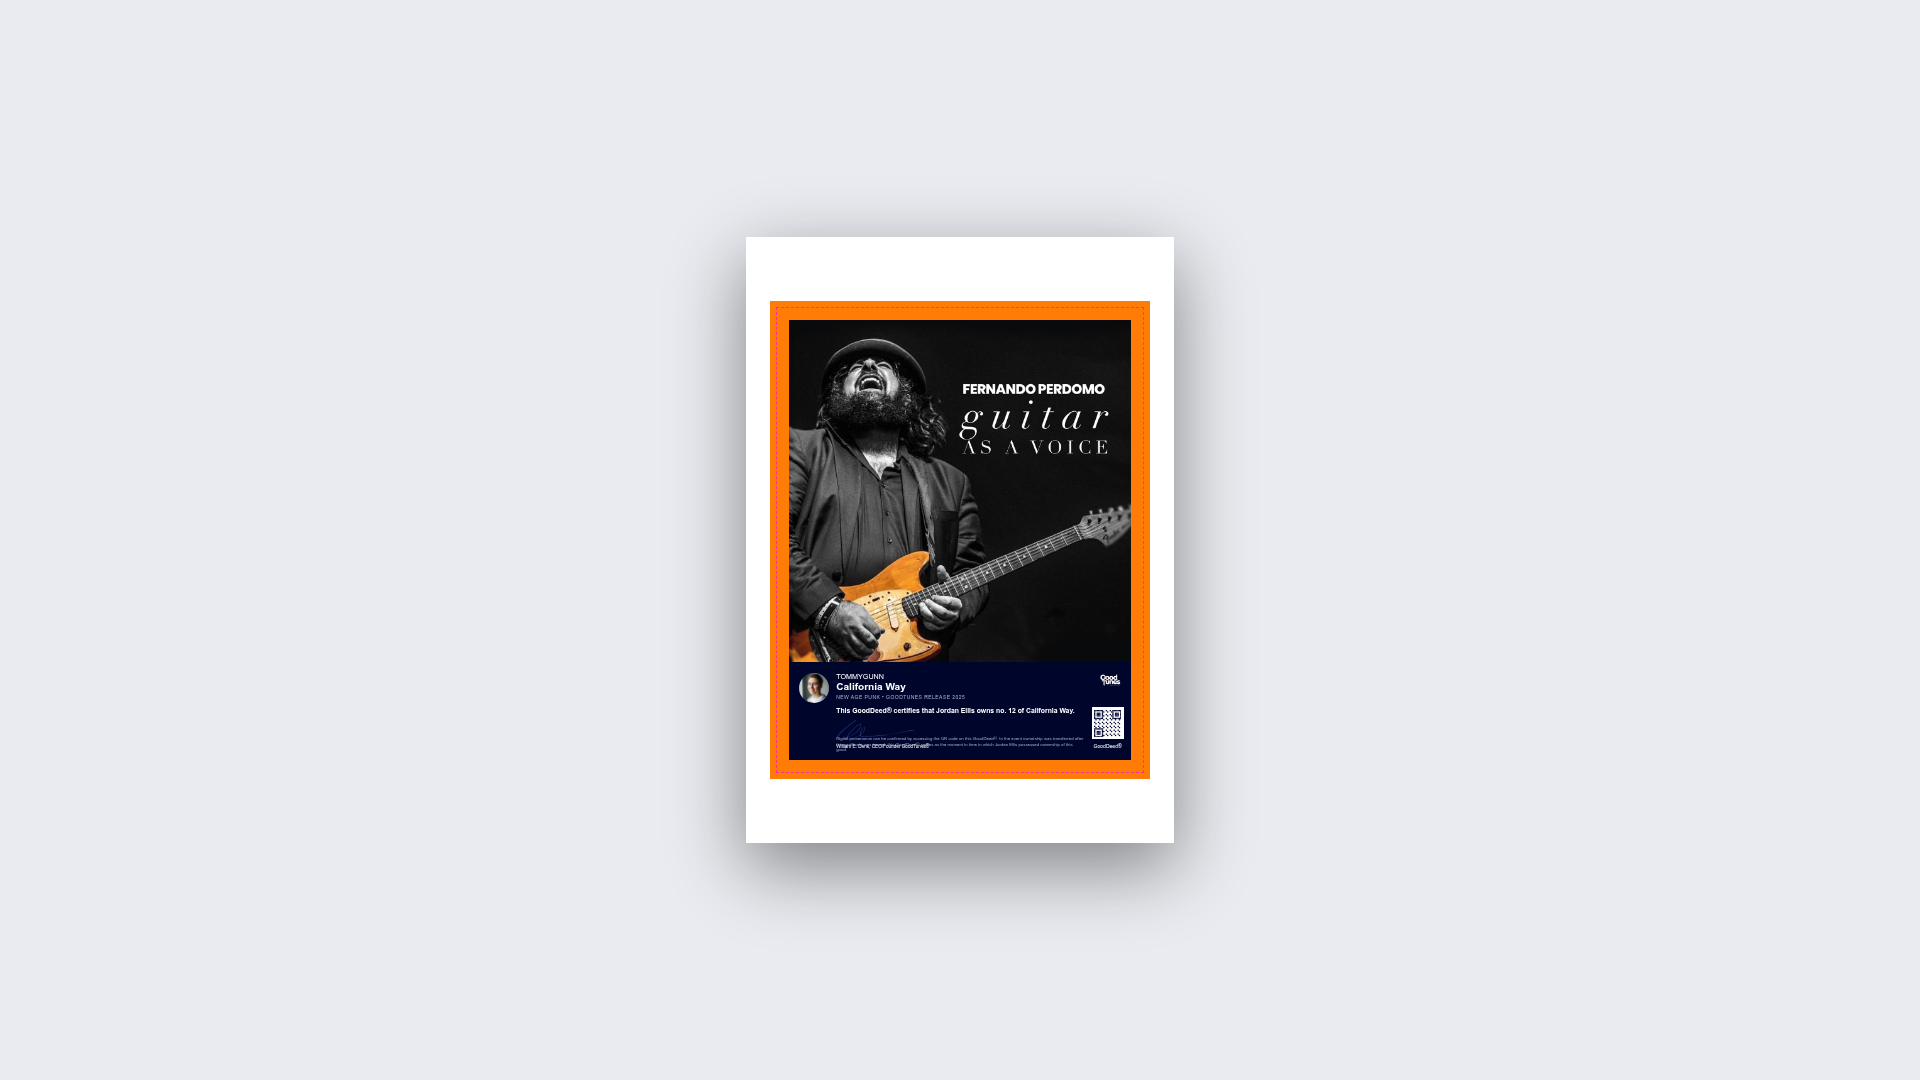
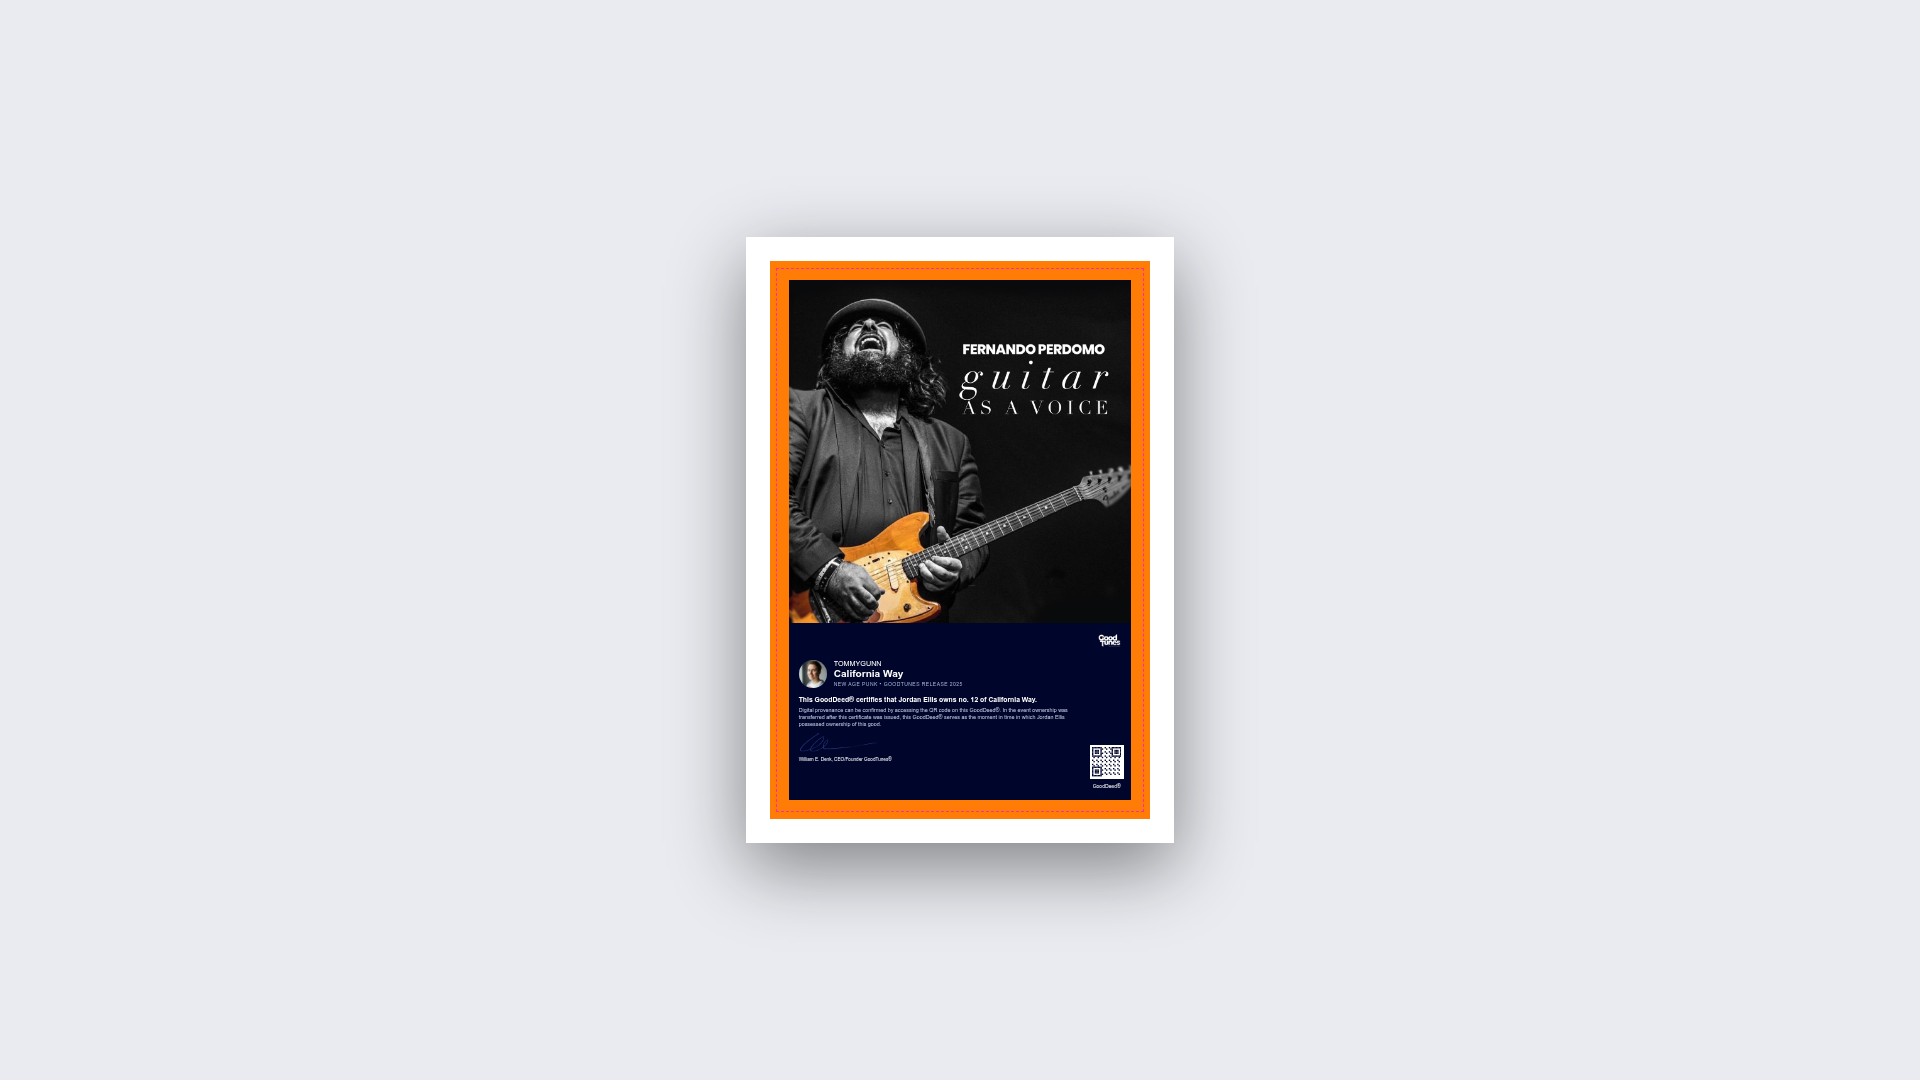
Adjust A4 certificate proportions for even matting and balanced borders
Re-proportion A4 certificate mockups to fill the paper evenly with equal margins, adjusting the navy band height while maintaining album art proportions. Updates `A4BorderDeep`, `A4BorderThin`, and `A4Current` components with new dimensions and comments reflecting the A4-centric layout.

Replit-Commit-Author: Agent
Replit-Commit-Session-Id: 05c2a2e8-5b06-4806-a9d5-d257ed0dfe21
Replit-Commit-Checkpoint-Type: full_checkpoint
Replit-Commit-Event-Id: 61e08a6e-7ff6-45f5-a671-44b9e7c3d0a2
Replit-Commit-Screenshot-Url: https://storage.googleapis.com/screenshot-production-us-central1/5293185b-8e25-4d4f-b8b2-dc5494b9adc6/05c2a2e8-5b06-4806-a9d5-d257ed0dfe21/0YOhSic
Replit-Helium-Checkpoint-Created: true

Changed region(s): [[0.375, 0.2444, 0.625, 0.7639]]

diff --git a/artifacts/mockup-sandbox/src/components/mockups/gooddeed-print/A4BorderThin.tsx b/artifacts/mockup-sandbox/src/components/mockups/gooddeed-print/A4BorderThin.tsx
@@ -2,20 +2,21 @@ import { CertStage } from "./_CertPrint";
 
 const GUITAR = "/__mockup/images/album-guitar-as-a-voice.png";
 
-// A4 sheet, approved US 7.5:9.5 layout. Mat opening = 180x228mm centered (dashed).
-// Orange border STRADDLES the opening: 3mm OUTSIDE the dots + 3mm INSIDE = a 6mm
-// band. Artwork fills to the orange's inner edge (174x222mm). Orange outer edge
-// = 186x234mm (3mm bleed past the opening).
+// A4 (EU) — Path B. Mat opening 180x267mm centered = an even 15mm mount all
+// around (dashed pink line). Orange border STRADDLES the opening: 3mm INSIDE
+// the dots + 3mm OUTSIDE = a 6mm band — the metric twin of the approved US
+// Letter "thin" (1/8" each side). Square art + a taller navy band so the cert
+// fills the A4 mat evenly.
 export function A4BorderThin() {
   return (
     <CertStage
       paper="a4"
-      layout="letter"
       frame="bordered"
       art={GUITAR}
-      bleedIn={0.236220}
-      matBoxIn={[6.850394, 8.740157]}
-      frameRevealWin={[7.086614, 8.976378]}
+      insetIn={0.118110}
+      bleedIn={0.118110}
+      matBoxIn={[7.086614, 10.511811]}
+      frameRevealWin={[7.086614, 10.511811]}
     />
   );
 }

diff --git a/artifacts/mockup-sandbox/src/components/mockups/gooddeed-print/A4BorderDeep.tsx b/artifacts/mockup-sandbox/src/components/mockups/gooddeed-print/A4BorderDeep.tsx
@@ -2,20 +2,20 @@ import { CertStage } from "./_CertPrint";
 
 const GUITAR = "/__mockup/images/album-guitar-as-a-voice.png";
 
-// A4 sheet, approved US 7.5:9.5 layout. Mat opening = 180x228mm centered (dashed).
-// Orange border STRADDLES the opening: 3mm OUTSIDE the dots + 6mm INSIDE = a 9mm
-// band. Artwork fills to the orange's inner edge (168x216mm). Orange outer edge
-// = 186x234mm (3mm bleed past the opening).
+// A4 (EU) — Path B. Mat opening 180x267mm centered = an even 15mm mount all
+// around (dashed pink line). Orange border STRADDLES the opening: 6mm INSIDE
+// the dots + 3mm OUTSIDE = a 9mm band; album art fills to the orange's inner
+// edge. Square art + a taller navy band so the cert fills the A4 mat evenly.
 export function A4BorderDeep() {
   return (
     <CertStage
       paper="a4"
-      layout="letter"
       frame="bordered"
       art={GUITAR}
-      bleedIn={0.354331}
-      matBoxIn={[6.614173, 8.503937]}
-      frameRevealWin={[7.086614, 8.976378]}
+      insetIn={0.236220}
+      bleedIn={0.118110}
+      matBoxIn={[7.086614, 10.511811]}
+      frameRevealWin={[7.086614, 10.511811]}
     />
   );
 }

diff --git a/artifacts/mockup-sandbox/src/components/mockups/gooddeed-print/A4Current.tsx b/artifacts/mockup-sandbox/src/components/mockups/gooddeed-print/A4Current.tsx
@@ -2,18 +2,19 @@ import { CertStage } from "./_CertPrint";
 
 const GUITAR = "/__mockup/images/album-guitar-as-a-voice.png";
 
-// A4 sheet, but the cert keeps the approved US 7.5:9.5 layout (not stretched to
-// A4's taller mat). Mat opening = 180x228mm centered. Artwork = 180x228mm: flush
-// to the opening, 0mm bleed.
+// A4 (EU) — Path B: cert RE-PROPORTIONED to fill the A4 mat evenly. Mat opening
+// 180x267mm centered on the A4 sheet = an even 15mm mount on all four sides
+// (dashed pink line). The album art stays a perfect square; the navy band grows
+// taller so the whole cert is A4-shaped. Navy baseline (no orange): content
+// fills the opening, navy bleeds 1/8" past it (the safety bleed).
 export function A4Current() {
   return (
     <CertStage
       paper="a4"
-      layout="letter"
       frame="navy"
       art={GUITAR}
-      matBoxIn={[7.0866, 8.9764]}
-      frameRevealWin={[7.0866, 8.9764]}
+      matBoxIn={[7.086614, 10.511811]}
+      frameRevealWin={[7.086614, 10.511811]}
     />
   );
 }

diff --git a/artifacts/mockup-sandbox/src/components/mockups/gooddeed-print/_CertPrint.tsx b/artifacts/mockup-sandbox/src/components/mockups/gooddeed-print/_CertPrint.tsx
@@ -42,9 +42,10 @@ function dims(paper: Paper, matBoxIn?: [number, number]) {
   const W = paper === "a4" ? 595.28 : 612;
   const H = paper === "a4" ? 841.89 : 792;
   // matBoxIn (inches) lets the caller pin the cert content box (art + band) to a
-  // FIXED real-world size centered on the sheet — used so the A4 cert keeps the
-  // original US 7.5:9.5 proportion (e.g. a 180x228mm mat opening) instead of
-  // stretching to A4's taller native mat.
+  // FIXED real-world size centered on the sheet — used so the A4 cert fills a
+  // chosen A4 mat opening with even margins (square album art + a taller navy
+  // band) instead of using A4's native mat ratio. e.g. a 180x267mm opening on A4
+  // = an even 15mm mount on all four sides.
   const matW = matBoxIn ? matBoxIn[0] * 72 : W * (2250 / 2550);
   const matH = matBoxIn ? matBoxIn[1] * 72 : H * (2850 / 3300);
   const matX = (W - matW) / 2;
